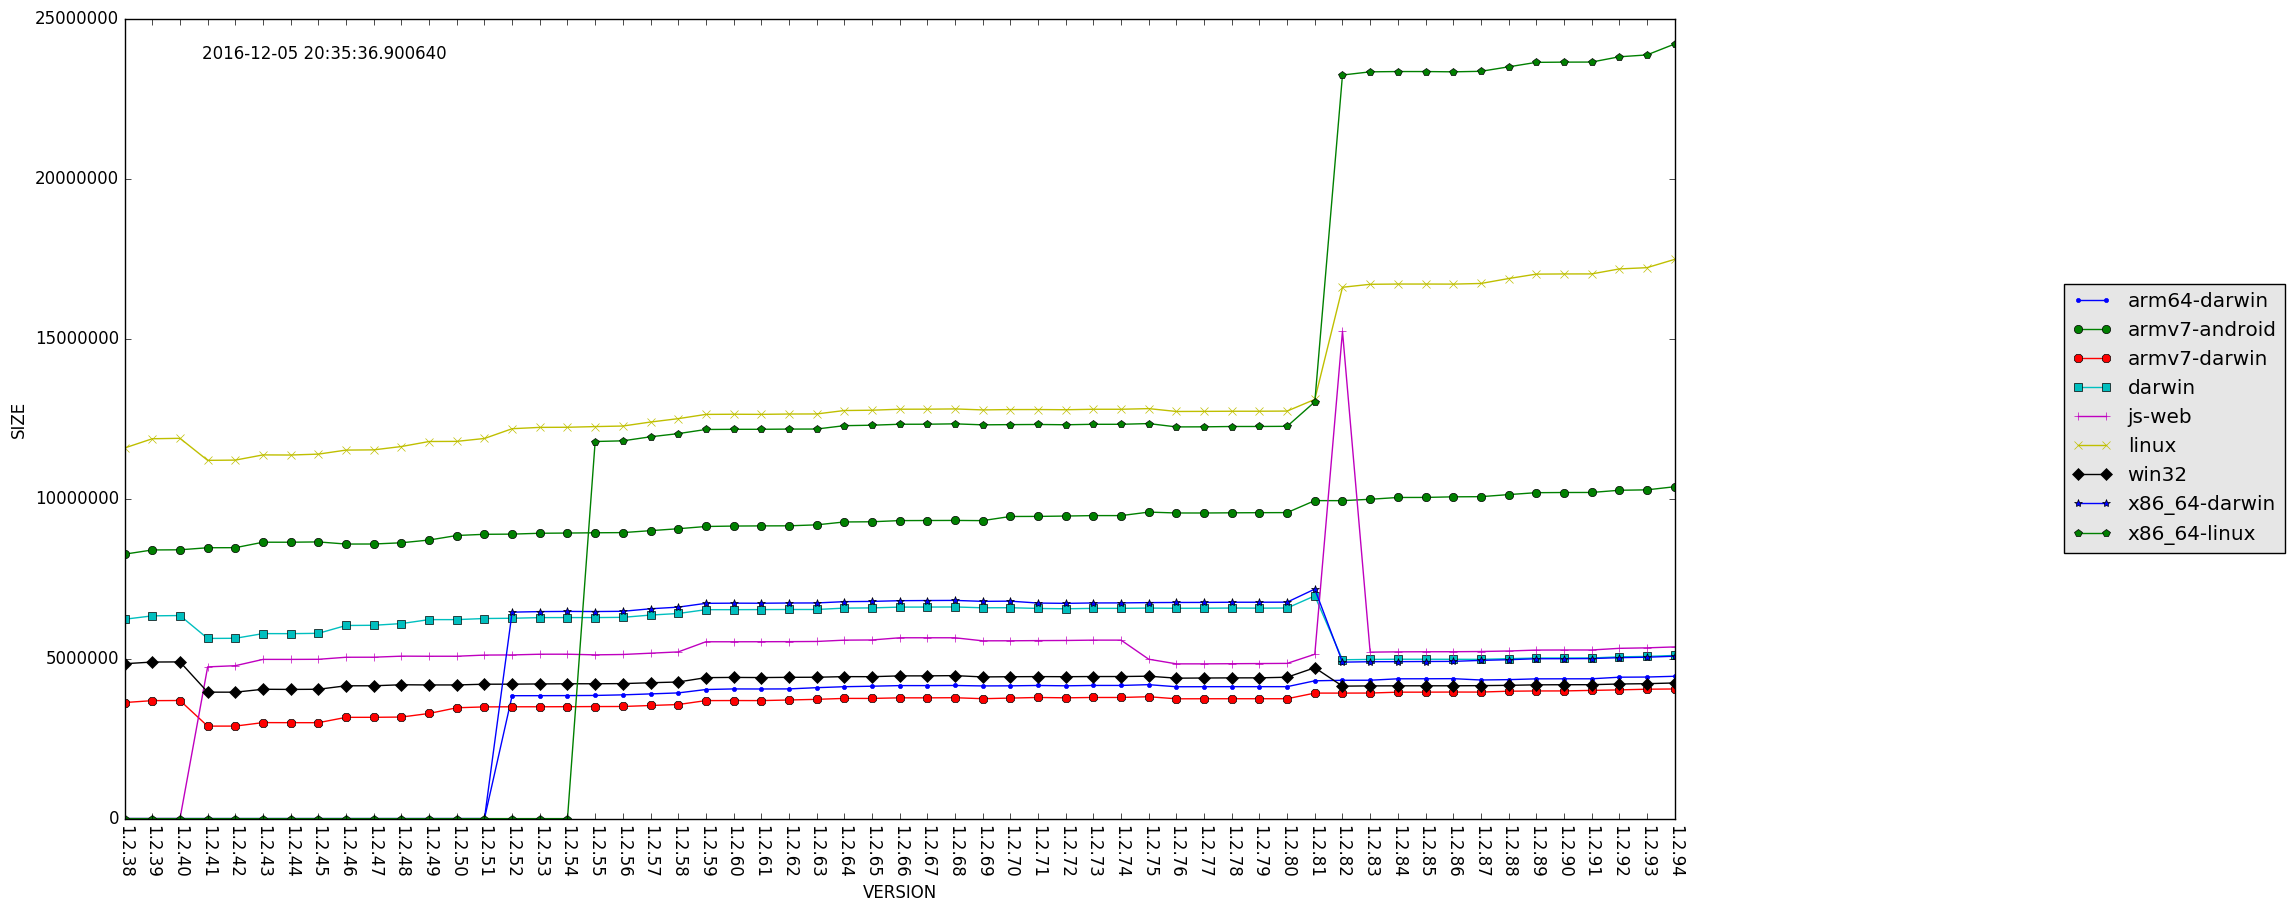
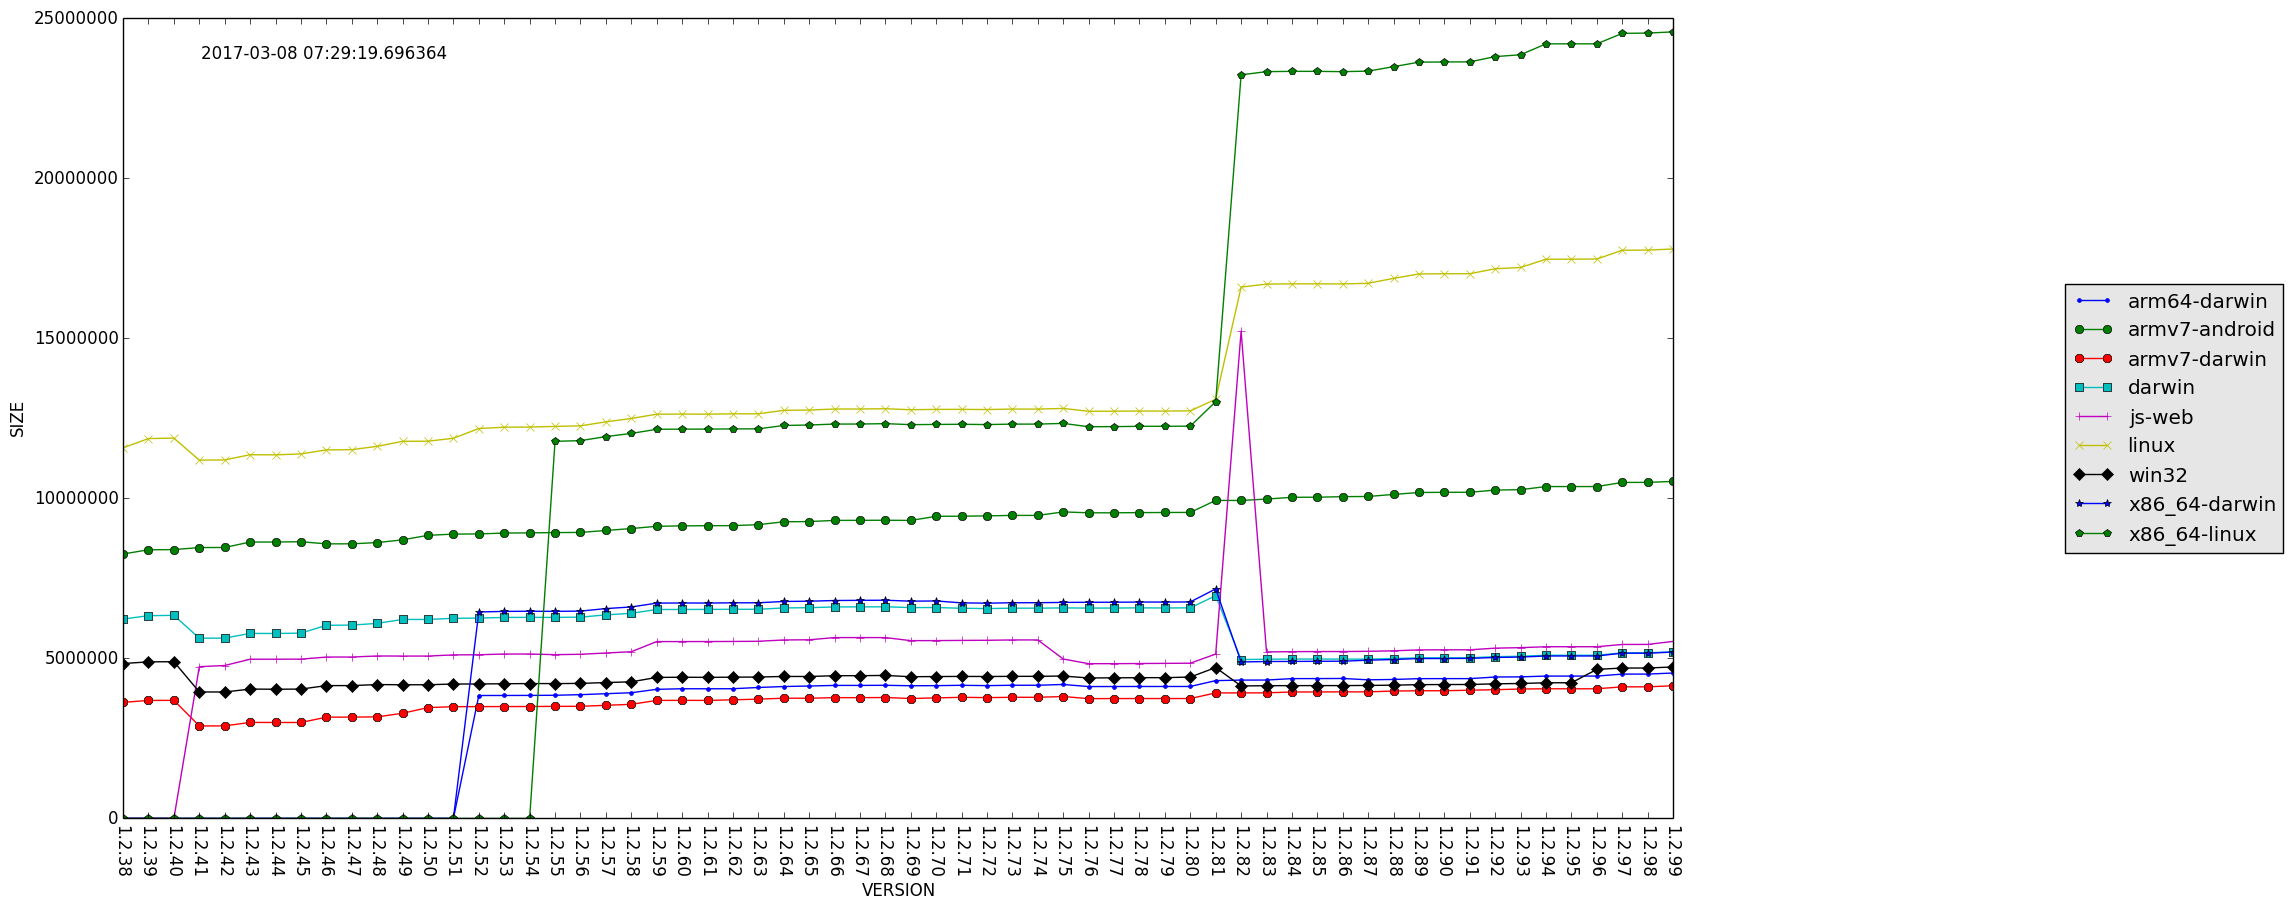
Added size report for 1.2.97-1.2.99

diff --git a/check_size.py b/check_size.py
@@ -86,6 +86,9 @@ releases = [
 	{ "version": "1.2.94", "sha1": "a9ec217c3e4b486c07a86c935b0cc805b6680480" },
 	{ "version": "1.2.95", "sha1": "7ca47a7f7aa0e4809e31ab2274fd1693a1fc5a7e" },
 	{ "version": "1.2.96", "sha1": "0060183cce2e29dbd09c85ece83cbb72068ee050" },
+	{ "version": "1.2.97", "sha1": "8e1d5f8a8a0e1734c9e873ec72b56bea53f25d87" },
+	{ "version": "1.2.98", "sha1": "735ff76c8b1f93b3126ff223cd234d7ceb5b886d" },
+	{ "version": "1.2.99", "sha1": "0d7f8b51658bee90cb38f3d651b3ba072394afed" },
 ]
 
 def create_report():
